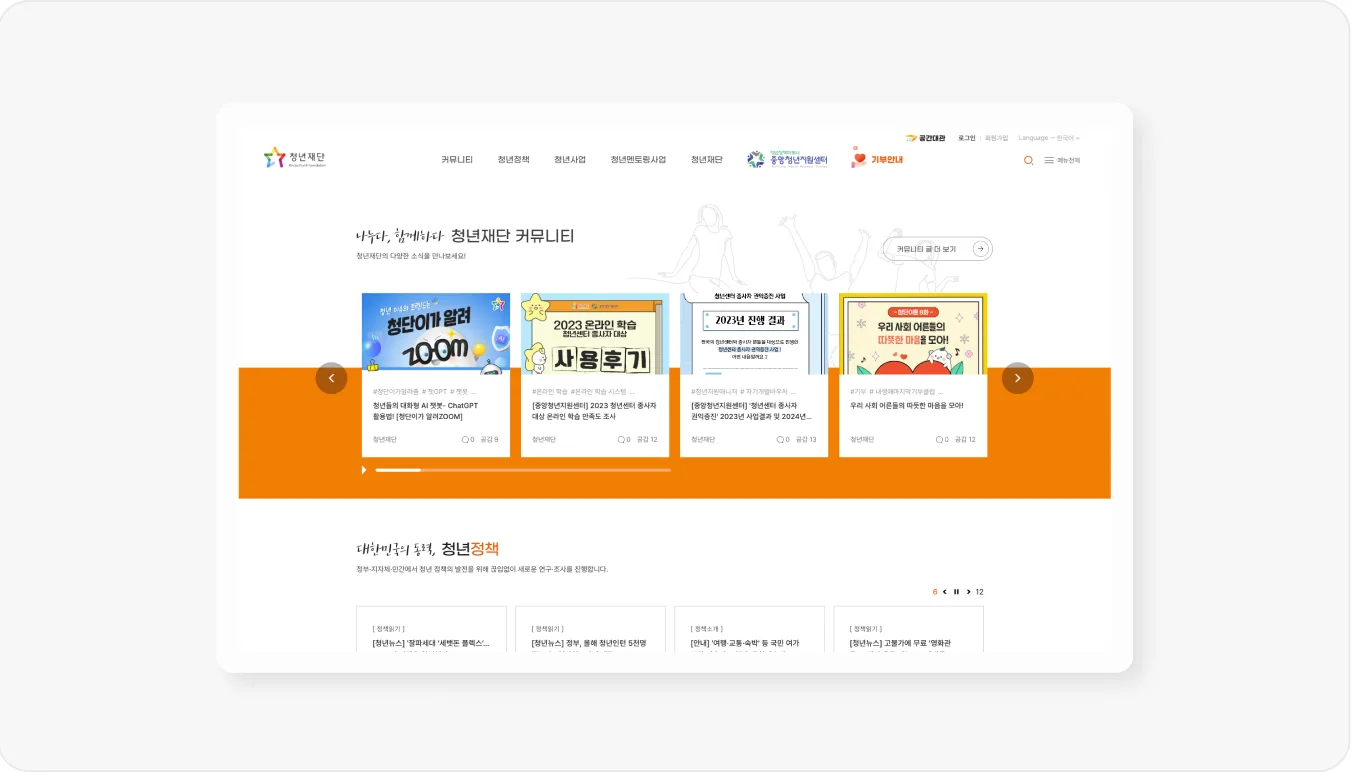
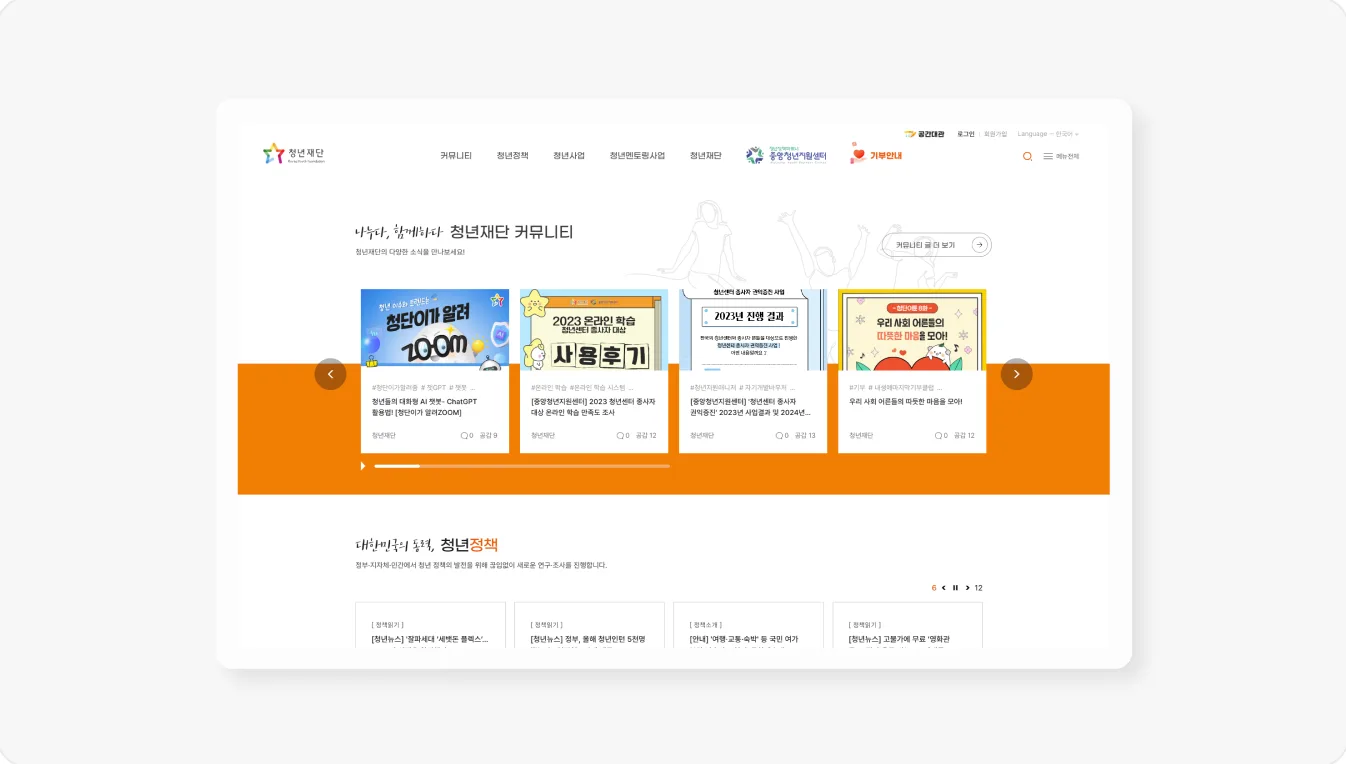
마퀴 카드 보더 균일화 + 연도 탭 밑줄 1px 간격 + 닫기 버튼 크기
index 마퀴 카드 14장의 테두리가 들쭉날쭉했던 원인은 슬라이스 좌표였다.
피그마 실측 카드 피치는 704.75 인데 705(정수)로 잘라, 열이 갈수록 최대 3px
밀리면서 구워진 1px 스트로크가 어떤 카드는 2px 남고 어떤 카드는 통째로
잘려나갔다. 정확한 피치로 다시 자르되 스트로크는 각 변 2px 인셋으로 아예
제거하고, 프레임(#F7F7F7 배경 · 1px #E9EAEA · 라운드 16)은 CSS 가 그린다.
→ 14장 전부 동일한 프레임. 이미지 1354x772 → 1346x764.

연도 탭 활성 밑줄이 탭 바 하단 구분선에 붙어 한 덩어리로 보이던 것을
border-bottom 대신 ::after(bottom:1px) 로 바꿔 1px 띄웠다.
탭 바 높이는 81 그대로라 연도 앵커 정렬(scroll-margin-top:170)은 유지된다.

모달 닫기 버튼이 28x28 이 아니라 16x28 로 눌려 있었다. button 의 브라우저
기본 좌우 패딩이 리셋되지 않아 28px 버튼의 콘텐츠 박스가 16px 이었다.

diff --git a/index.html b/index.html
@@ -14,10 +14,10 @@
   <meta property="og:image" content="">
   <meta name="theme-color" content="#ffffff">
 
-  <link rel="stylesheet" href="./assets/css/reset.css?v=28">
-  <link rel="stylesheet" href="./assets/css/tokens.css?v=28">
-  <link rel="stylesheet" href="./assets/css/layout.css?v=28">
-  <link rel="stylesheet" href="./assets/css/components.css?v=28">
+  <link rel="stylesheet" href="./assets/css/reset.css?v=31">
+  <link rel="stylesheet" href="./assets/css/tokens.css?v=31">
+  <link rel="stylesheet" href="./assets/css/layout.css?v=31">
+  <link rel="stylesheet" href="./assets/css/components.css?v=31">
 </head>
 
 <body>
@@ -176,24 +176,24 @@
       <div class="marquee" data-marquee>
         <div class="marquee__row">
           <div class="marquee__track" data-marquee-track data-direction="left">
-            <figure class="marquee__card"><picture><source srcset="./assets/img/archive/archive-01.webp" type="image/webp"><img src="./assets/img/archive/archive-01.png" alt="" loading="lazy" width="677" height="386"></picture></figure>
-            <figure class="marquee__card"><picture><source srcset="./assets/img/archive/archive-02.webp" type="image/webp"><img src="./assets/img/archive/archive-02.png" alt="" loading="lazy" width="677" height="386"></picture></figure>
-            <figure class="marquee__card"><picture><source srcset="./assets/img/archive/archive-03.webp" type="image/webp"><img src="./assets/img/archive/archive-03.png" alt="" loading="lazy" width="677" height="386"></picture></figure>
-            <figure class="marquee__card"><picture><source srcset="./assets/img/archive/archive-04.webp" type="image/webp"><img src="./assets/img/archive/archive-04.png" alt="" loading="lazy" width="677" height="386"></picture></figure>
-            <figure class="marquee__card"><picture><source srcset="./assets/img/archive/archive-05.webp" type="image/webp"><img src="./assets/img/archive/archive-05.png" alt="" loading="lazy" width="677" height="386"></picture></figure>
-            <figure class="marquee__card"><picture><source srcset="./assets/img/archive/archive-06.webp" type="image/webp"><img src="./assets/img/archive/archive-06.png" alt="" loading="lazy" width="677" height="386"></picture></figure>
-            <figure class="marquee__card"><picture><source srcset="./assets/img/archive/archive-07.webp" type="image/webp"><img src="./assets/img/archive/archive-07.png" alt="" loading="lazy" width="677" height="386"></picture></figure>
+            <figure class="marquee__card"><picture><source srcset="./assets/img/archive/archive-01.webp" type="image/webp"><img src="./assets/img/archive/archive-01.png" alt="" loading="lazy" width="673" height="382"></picture></figure>
+            <figure class="marquee__card"><picture><source srcset="./assets/img/archive/archive-02.webp" type="image/webp"><img src="./assets/img/archive/archive-02.png" alt="" loading="lazy" width="673" height="382"></picture></figure>
+            <figure class="marquee__card"><picture><source srcset="./assets/img/archive/archive-03.webp" type="image/webp"><img src="./assets/img/archive/archive-03.png" alt="" loading="lazy" width="673" height="382"></picture></figure>
+            <figure class="marquee__card"><picture><source srcset="./assets/img/archive/archive-04.webp" type="image/webp"><img src="./assets/img/archive/archive-04.png" alt="" loading="lazy" width="673" height="382"></picture></figure>
+            <figure class="marquee__card"><picture><source srcset="./assets/img/archive/archive-05.webp" type="image/webp"><img src="./assets/img/archive/archive-05.png" alt="" loading="lazy" width="673" height="382"></picture></figure>
+            <figure class="marquee__card"><picture><source srcset="./assets/img/archive/archive-06.webp" type="image/webp"><img src="./assets/img/archive/archive-06.png" alt="" loading="lazy" width="673" height="382"></picture></figure>
+            <figure class="marquee__card"><picture><source srcset="./assets/img/archive/archive-07.webp" type="image/webp"><img src="./assets/img/archive/archive-07.png" alt="" loading="lazy" width="673" height="382"></picture></figure>
           </div>
         </div>
         <div class="marquee__row">
           <div class="marquee__track" data-marquee-track data-direction="right">
-            <figure class="marquee__card"><picture><source srcset="./assets/img/archive/archive-08.webp" type="image/webp"><img src="./assets/img/archive/archive-08.png" alt="" loading="lazy" width="677" height="386"></picture></figure>
-            <figure class="marquee__card"><picture><source srcset="./assets/img/archive/archive-09.webp" type="image/webp"><img src="./assets/img/archive/archive-09.png" alt="" loading="lazy" width="677" height="386"></picture></figure>
-            <figure class="marquee__card"><picture><source srcset="./assets/img/archive/archive-10.webp" type="image/webp"><img src="./assets/img/archive/archive-10.png" alt="" loading="lazy" width="677" height="386"></picture></figure>
-            <figure class="marquee__card"><picture><source srcset="./assets/img/archive/archive-11.webp" type="image/webp"><img src="./assets/img/archive/archive-11.png" alt="" loading="lazy" width="677" height="386"></picture></figure>
-            <figure class="marquee__card"><picture><source srcset="./assets/img/archive/archive-12.webp" type="image/webp"><img src="./assets/img/archive/archive-12.png" alt="" loading="lazy" width="677" height="386"></picture></figure>
-            <figure class="marquee__card"><picture><source srcset="./assets/img/archive/archive-13.webp" type="image/webp"><img src="./assets/img/archive/archive-13.png" alt="" loading="lazy" width="677" height="386"></picture></figure>
-            <figure class="marquee__card"><picture><source srcset="./assets/img/archive/archive-14.webp" type="image/webp"><img src="./assets/img/archive/archive-14.png" alt="" loading="lazy" width="677" height="386"></picture></figure>
+            <figure class="marquee__card"><picture><source srcset="./assets/img/archive/archive-08.webp" type="image/webp"><img src="./assets/img/archive/archive-08.png" alt="" loading="lazy" width="673" height="382"></picture></figure>
+            <figure class="marquee__card"><picture><source srcset="./assets/img/archive/archive-09.webp" type="image/webp"><img src="./assets/img/archive/archive-09.png" alt="" loading="lazy" width="673" height="382"></picture></figure>
+            <figure class="marquee__card"><picture><source srcset="./assets/img/archive/archive-10.webp" type="image/webp"><img src="./assets/img/archive/archive-10.png" alt="" loading="lazy" width="673" height="382"></picture></figure>
+            <figure class="marquee__card"><picture><source srcset="./assets/img/archive/archive-11.webp" type="image/webp"><img src="./assets/img/archive/archive-11.png" alt="" loading="lazy" width="673" height="382"></picture></figure>
+            <figure class="marquee__card"><picture><source srcset="./assets/img/archive/archive-12.webp" type="image/webp"><img src="./assets/img/archive/archive-12.png" alt="" loading="lazy" width="673" height="382"></picture></figure>
+            <figure class="marquee__card"><picture><source srcset="./assets/img/archive/archive-13.webp" type="image/webp"><img src="./assets/img/archive/archive-13.png" alt="" loading="lazy" width="673" height="382"></picture></figure>
+            <figure class="marquee__card"><picture><source srcset="./assets/img/archive/archive-14.webp" type="image/webp"><img src="./assets/img/archive/archive-14.png" alt="" loading="lazy" width="673" height="382"></picture></figure>
           </div>
         </div>
         <p class="sr-only">2021년부터 2026년까지의 작업 썸네일 14건. 전체 목록은 Archive 페이지에서 확인할 수 있습니다.</p>
@@ -237,7 +237,7 @@
   </footer>
 
   <script src="./assets/js/gsap.min.js"></script>
-  <script src="./assets/js/main.js?v=28"></script>
+  <script src="./assets/js/main.js?v=31"></script>
 </body>
 
 </html>

diff --git a/assets/css/components.css b/assets/css/components.css
@@ -194,13 +194,19 @@ picture { display: contents; }
   width: max-content;
   will-change: transform;
 }
-/* 이미지에 카드 배경·테두리·라운드(13px)가 이미 구워져 있고 그 바깥은 투명하다.
-   컨테이너가 배경(#F7F7F7)과 다른 라운드(16px)를 또 그리면
-   두 곡선이 어긋나 모서리에 회색이 비친다. 컨테이너는 크기만 잡는다. */
+/* 카드 프레임(#F7F7F7 배경 · 1px #E9EAEA 스트로크 · 라운드 16)은 시안에서
+   이미지에 구워져 있었다. 그런데 카드 피치가 705 가 아니라 704.75 라서
+   정수로 슬라이스하면 열마다 최대 3px 씩 밀려, 스트로크가 어떤 카드는 2px 남고
+   어떤 카드는 통째로 잘려나갔다 — 그게 보더가 들쭉날쭉해 보인 원인이다.
+   이미지에서는 스트로크를 잘라내고(각 변 2px 인셋) 프레임은 여기서 그린다. */
 .marquee__card {
   flex-shrink: 0;
   width: 677px;
   aspect-ratio: 677 / 386;
+  background: var(--surface);
+  border: 1px solid var(--line-card);
+  border-radius: var(--radius-card);
+  overflow: hidden;
 }
 .marquee__card img {
   width: 100%; height: 100%;
@@ -397,24 +403,35 @@ picture { display: contents; }
   gap: var(--space-2);
 }
 .year-tabs a {
+  position: relative;            /* 밑줄(::after) 기준 */
   display: inline-flex;
   align-items: center;
   justify-content: center;
   height: 80px;                  /* 밑줄 2px 포함 */
   padding-inline: 22px;
-  border-bottom: 2px solid transparent;
   font-size: 18px;
   line-height: 26px;
   color: var(--ink-tab);
-  transition: color var(--dur-fast) var(--ease),
-              border-color var(--dur-fast) var(--ease);
+  transition: color var(--dur-fast) var(--ease);
+}
+/* border-bottom 으로 그리면 밑줄이 탭 바 하단 구분선에 딱 붙어 한 덩어리로 보인다.
+   ::after 를 bottom:1px 에 두어 검은 밑줄과 하단 구분선 사이를 1px 띄운다. */
+.year-tabs a::after {
+  content: "";
+  position: absolute;
+  left: 0;
+  right: 0;
+  bottom: 1px;
+  height: 2px;
+  background: transparent;
+  transition: background-color var(--dur-fast) var(--ease);
 }
 .year-tabs a:hover { color: var(--ink-900); }
 .year-tabs a[aria-current] {
   font-weight: 700;
   color: var(--ink-900);
-  border-bottom-color: var(--ink-900);
 }
+.year-tabs a[aria-current]::after { background: var(--ink-900); }
 
 /* 목록 영역 — 탭 끝 739 → 목록 842 = 103px */
 .archive-list {
@@ -425,7 +442,10 @@ picture { display: contents; }
 /* 연도 그룹 — 헤더 90 + 탭 51 만큼 앵커 여유를 준다 */
 .year-group {
   padding-bottom: 41px;
-  scroll-margin-top: 172px;   /* 헤더 90 + 탭 80 + 보더 2 — 보더끼리 맞닿지 않게 1px 여유 */
+  /* 헤더 90 + 탭 81(80+보더1) = 171 이 탭 하단선의 끝.
+     170 으로 두면 연도 그룹의 border-top 이 탭 하단선과 같은 픽셀에 겹쳐
+     선이 한 줄로 보인다. 172 면 1px 떨어져 두 줄로 보였다. */
+  scroll-margin-top: 170px;
 }
 .year-group + .year-group {
   border-top: 1px solid var(--line);
@@ -727,7 +747,7 @@ body.is-modal-open { overflow: hidden; }
   .metric__value { font-size: 44px; }
 
   .year-tabs { top: 64px; }
-  .year-group { scroll-margin-top: 146px; }   /* 헤더 64 + 탭 80 + 2 */
+  .year-group { scroll-margin-top: 144px; }   /* 헤더 64 + 탭 81 − 1 (겹침) */
   .card-grid { grid-template-columns: 1fr; gap: var(--space-5); }
   .year-group__label { margin-bottom: var(--space-4); }
 

diff --git a/about.html b/about.html
@@ -14,10 +14,10 @@
   <meta property="og:image" content="">
   <meta name="theme-color" content="#ffffff">
 
-  <link rel="stylesheet" href="./assets/css/reset.css?v=28">
-  <link rel="stylesheet" href="./assets/css/tokens.css?v=28">
-  <link rel="stylesheet" href="./assets/css/layout.css?v=28">
-  <link rel="stylesheet" href="./assets/css/components.css?v=28">
+  <link rel="stylesheet" href="./assets/css/reset.css?v=31">
+  <link rel="stylesheet" href="./assets/css/tokens.css?v=31">
+  <link rel="stylesheet" href="./assets/css/layout.css?v=31">
+  <link rel="stylesheet" href="./assets/css/components.css?v=31">
 </head>
 
 <body>
@@ -296,7 +296,7 @@
   </footer>
 
   <script src="./assets/js/gsap.min.js"></script>
-  <script src="./assets/js/main.js?v=28"></script>
+  <script src="./assets/js/main.js?v=31"></script>
 </body>
 
 </html>

diff --git a/archive.html b/archive.html
@@ -14,10 +14,10 @@
   <meta property="og:image" content="">
   <meta name="theme-color" content="#ffffff">
 
-  <link rel="stylesheet" href="./assets/css/reset.css?v=28">
-  <link rel="stylesheet" href="./assets/css/tokens.css?v=28">
-  <link rel="stylesheet" href="./assets/css/layout.css?v=28">
-  <link rel="stylesheet" href="./assets/css/components.css?v=28">
+  <link rel="stylesheet" href="./assets/css/reset.css?v=31">
+  <link rel="stylesheet" href="./assets/css/tokens.css?v=31">
+  <link rel="stylesheet" href="./assets/css/layout.css?v=31">
+  <link rel="stylesheet" href="./assets/css/components.css?v=31">
 </head>
 
 <body>
@@ -739,7 +739,7 @@
   </script>
 
   <script src="./assets/js/gsap.min.js"></script>
-  <script src="./assets/js/main.js?v=28"></script>
+  <script src="./assets/js/main.js?v=31"></script>
 </body>
 
 </html>

diff --git a/assets/css/tokens.css b/assets/css/tokens.css
@@ -64,6 +64,7 @@
   --line:        #D9D9D9;   /* 구분선 — Selected work 아이템 경계, 표 괘선 */
   --line-soft:   #DCDCDC;   /* 본문 블록 상하 경계 */
   --line-chip:   #E7E7E7;   /* 칩 테두리 */
+  --line-card:   #E9EAEA;   /* 아카이브 카드 테두리 (피그마 stroke INSIDE 1px) */
   --icon-muted:  #ADADAD;   /* 보조 버튼 아이콘 (글자보다 연하다) */
   --line-tab:    #D9D9D9;   /* 연도 탭 바 하단선 · 모달 구분 바 */
   --ink-tab:     #B2BBC5;   /* 비활성 연도 탭 */

diff --git a/assets/css/reset.css b/assets/css/reset.css
@@ -52,6 +52,9 @@ button, input, select, textarea {
 button {
   background: none;
   border: 0;
+  /* 브라우저 기본 좌우 패딩(약 6px)이 남아 있으면
+     고정 크기 버튼 안의 아이콘이 눌린다 (28px 버튼 → 내부 16px) */
+  padding: 0;
   cursor: pointer;
 }
 
